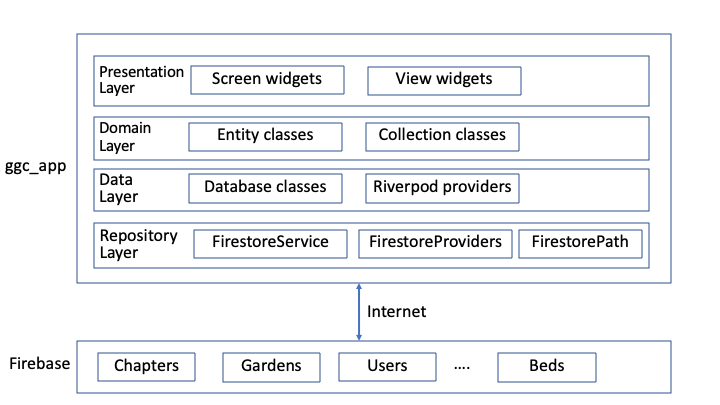
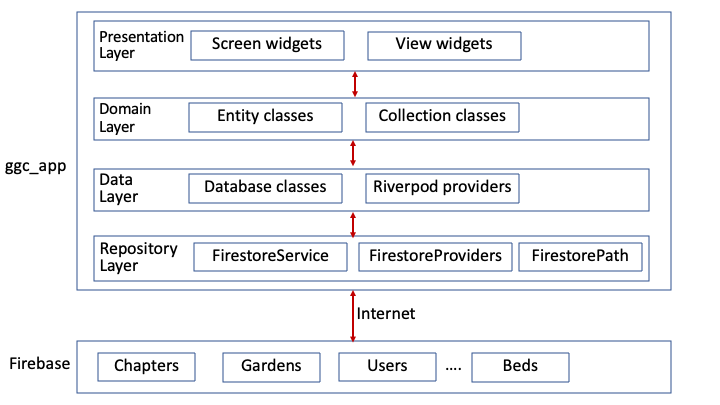
updates to architecture

diff --git a/docs/develop/architecture.md b/docs/develop/architecture.md
@@ -15,7 +15,7 @@ To begin, GGC can be viewed as a simple client-server application: there is a ce
 
 ## Layered application architecture perspective
 
-In the above diagram, the client app is structured as four layers. This layering is strict, in that each layer communicates only with the layer above and below it.
+In the above diagram, the ggc_app is represented as four layers. This layering is strict, in that each layer communicates only with the layer above and below it. Let's introduce each layer, moving from bottom to top:
 
 **Repository Layer**. This bottom-most layer implements generic code for communication with Firebase: querying collections for documents; adding, deleting, and modifying documents, and so forth. In this layer, data is represented in JSON format (for entities) or binary format (for images).  
 
@@ -23,30 +23,28 @@ In the above diagram, the client app is structured as four layers. This layering
 
 **Domain Layer**. The domain layer implements code to translate between the data representations used at the data layer (i.e. JSON and Binary) and the data representations used at the Presentation Layer (i.e. Dart classes for entities and collections). The domain layer also implements the "business logic" of the application as discussed in the [Collections and business logic](/docs/develop/design/data-model#collections-and-business-logic) section.
 
-**Presentation Layer**. The presentation layer implements the Flutter-based user interface.  All of the classes at the presentation layer are Widgets. GGC divides UI classes into two types: "Screens" and "Views".  Screens implement a "top-level" page: they return a Scaffold Widget and can be routed to.  Views are "components": they are the building blocks for Screens and can potentially appear in multiple Screens.
+**Presentation Layer**. The presentation layer implements the Flutter-based user interface.  All the classes at the presentation layer are Widgets. GGC implements many kinds of UI objects; for example, "Screens" and "Views".  Screens implement a "top-level" page: they return a Scaffold Widget and they can be routed to.  Views are "components": they are the building blocks for Screens and can potentially appear in multiple Screens.
 
 ## Directory structure perspective
 
-There is a relatively straightforward correspondence between the above layers and the directory structure in the ggc_app repository. The top-level of the repo is more or less like any Flutter app.  Here is a semi-annotated version of most of the top-level files and directories: 
+There is a relatively straightforward correspondence between the above layers and the directory structure in the ggc_app repository. The top-level of the repo is more or less like any Flutter app.  Here is a semi-annotated version of some of the top-level files and directories to give you an idea of the organization:
 
 ```
 ggc_app/
-  .github/                  # CI GitHub Actions
-  android/
-  assets/
-  ios/
-  lib/                      # Source code here
-  linux/
-  macos/
-  stories/                  # Monarch stories here.
-  test/
-  web/
-  windows/
+  .github/                  # GitHub Actions
+  android/                  # (Managed by Flutter)
+  assets/                   # Static data resources
+  ios/                      # (Managed by Flutter)
+  integration_test          # Test code 
+  lib/                      # Source code 
+  linux/                    # (Managed by Flutter)
+  macos/                    # (Managed by Flutter)
+  stories/                  # Monarch code
+  web/                      # (Managed by Flutter)
+  windows/                  # (Managed by Flutter)
   analysis_options.yaml
-  build_runner.sh           # Useful if you change data model.
-  lakos.sh                  # Build a diagram of the architecture
   pubspec.yaml
-  run_monarch.sh            # Run the Monarch UI Story system
+  run_build_runner.sh       # Example of a GGC script           
 ```
 
 The lib/ directory is where most of the action is. Here's a semi-annotated perspective of some the top-level of the lib/ directory:
@@ -55,25 +53,24 @@ The lib/ directory is where most of the action is. Here's a semi-annotated persp
 lib/
   features/        #  Feature-based organization for Data, Domain, and Presentation layers
   repositories/    #  Implements the "Repository" layer
+  theme/           #  UI Theme (fonts, colors, etc.
   main.dart        #  Main entry point
+  main_test_fixture.dart # An entry point that uses the test fixture data.
   router.dart      #  Implements routes using go_router 
-  theme_data.dart  #  Implements a theme using FlexColorScheme
 ```
 
 Finally, here's a look inside the features/ directory:
 
 ```
 features/
+  admin/
   authentication/        # Authentication using firebase_ui_auth.
     /presentation        # Implementation only requires UI widgets.
-    
   common/                # Cross-cutting code
-  
   chapter/               # Implementation of Chapter feature
     data/                # Firebase interface
     domain/              # Chapter, ChapterCollection, etc.
-    presentation/        # ChapterIndexScreen, ChapterView, etc.
-    
+    presentation/        # ChapterIndexScreen, ChapterView, etc.    
   crop/
   garden/
   gardener/
@@ -84,3 +81,33 @@ features/
 ```
 
 Each feature can have one or more of the following subdirectories: domain/, data/, and presentation/.  The authentication feature only requires a presentation/ subdirectory, while the chapter feature requires all three.
+
+## Data flow perspective
+
+A final architectural perspective illustrates the way data flows between external sources (i.e. Firestore) and the app. Here is a diagram that illustrates some of the key components:
+
+<img src="/img/develop/release-1.0/ggc-dataflow-diagram.png"/>
+
+Note that at the Firestore level, data is stored in a set of "flat" collections corresponding in many cases to "features" (i.e. Beds, Chapters, Crops, etc.). For the most part, the data model is similar to the table structure favored by SQL databases, even though Firestore is a document-oriented (NoSQL) database. 
+
+This diagram also illustrates the way GGC addresses the issue of communication with external services, which is intrinsically asynchronous. In asynchronous communications, there will be an unpredictable delay between the "request" (i.e. to retrieve or to store data) and the "response" (i.e. the request succeeded or failed). During this time, the UI should show some sort of "loading" indicator rather than freezing, or potentially just as bad, allowing the user to interact further with the UI. Finally, if the request fails (network or service is down), the UI should indicate the failure.
+
+Managing asynchronous communication in code is complex. In GGC, we have encapsulated the complexities of asynchronous communication into two mechanisms: the "With" widgets (for retrieval of data asynchronously), and the MutateController (for persisting data asynchronously).  What this provides is the ability to write app code with clearly defined boundaries between asynchronous and synchronous actions, which simplifies the code and reduces the chances for bugs in data storage and retrieval.
+
+The "With" widgets (such as WithCoreData, WithObservationData, WithUserGardenData, WithAllData) are responsible for setting up Riverpod providers that watch the various Firestore collections in various ways, and the populating an instance of each of three classes (ChapterCollection, GardenCollection, and UserCollection) with the data retrieved. Each With widget is responsible for displaying a "loading" icon while it waits for the required data from Firestore to arrive (or display an error if one occurs). Once the data arrives, it invokes a callback function supplied to it, passing the populated ChapterCollection, GardenCollection, and UserCollection instances. As a bonus, if any of the Firestore collections are updated by some other client, the use of Riverpod means that the widget will be automatically rebuilt, refreshing the UI with the changed data automatically. Consult the ["With" Widgets Design Pattern](design/with-widgets.md) documentation for more details.
+
+While the With widgets address the issue of asynchronous data retrieval, we must also address the issue of asynchronous data persistence.  It's the same problem, in reverse: when the app wants to persist data back to Firestore, the storage request will take an unpredictable amount of time, we'll want the UI to display a loading indicator during that time, and if an unforeseen error occurs, we'll want to show that to the user. 
+
+GGC addresses the persistence problem with a single class called MutateController.  Whenever UI code wants to update the database, it invokes this controller which takes a large number of optional arguments to support any combination of updates to the underlying entities. Consult the [Data Mutation Design Pattern](design/data-mutation.md) documentation for more details.
+
+
+
+
+
+
+
+
+
+
+
+

diff --git a/docs/develop/scripts.md b/docs/develop/scripts.md
@@ -7,13 +7,16 @@ hide_table_of_contents: false
 
 GGC development is supported by a number of Unix shell scripts. All scripts are named starting with "run" and use snake case to separate words in the script name.  
 
-| Name                 | Action                                                                                                                                                                                                                                                           |
-|----------------------|------------------------------------------------------------------------------------------------------------------------------------------------------------------------------------------------------------------------------------------------------------------|
-| run_build_runner.sh  | Invokes the builder running code generation facility, needed for entities using Freezed, JSON Serializable, and Riverpod.  |
-| run_deploy.sh | Bumps version number, updates release notes, builds the .ipa and .apk files, and deploys the web version. |
+| Name                 | Action                                                                                                                                                                                                                                                            |
+|----------------------|-------------------------------------------------------------------------------------------------------------------------------------------------------------------------------------------------------------------------------------------------------------------|
+| run_build_runner.sh  | Invokes the builder running code generation facility, needed for entities using Freezed, JSON Serializable, and Riverpod.                                                                                                                                         |
+| run_deploy.sh | Bumps version number, updates release notes, builds the .ipa and .apk files, and deploys the web version.                                                                                                                                                         |
 | run_flutter_clean.sh | After upgrading Flutter or pub.dev packages, the build might fail either during the `pod install` or `xcode build` steps. When this happens, google searches based on the error message often provide bad advice for Flutter developers. Try this script instead. |
-| run_flutter_downgrade.sh | In the event that a new release breaks things, you can use this script to back out to the previous release of flutter. |
-| run_monarch.sh       | A standard way to invoke the Monarch UI display system.                                                                                                                                                                                                          |
-| run_pub_add.sh       | If you are rebuilding the ggc_app with a fresh install of Flutter, this script installs all of the packages in one command. Before running it, make sure the list of packages is up to date!  |
-| run_rebuild_podfile.sh | If the build fails due to a podfile problem, this script rebuilds it appropriately. |
-| run_tool_versions.sh | Prints out the names and versions of important tech stack components. Useful when trying to diagnose why the system builds and runs for one developer but produces errors for another.                                                                           |                                                 |
+| run_flutter_downgrade.sh | In the event that a new release breaks things, you can use this script to back out to the previous release of flutter.                                                                                                                                            |
+| run_lakos.sh | Generates a visualization of the dependency graph.                                                                                                                                                                                                                |
+| run_monarch.sh       | A standard way to invoke the Monarch UI display system.                                                                                                                                                                                                           |
+| run_pub_add.sh       | If you are rebuilding the ggc_app with a fresh install of Flutter, this script installs all of the packages in one command. Before running it, make sure the list of packages is up to date!                                                                      |
+| run_rebuild_podfile.sh | If the build fails due to a podfile problem, this script rebuilds it appropriately.                                                                                                                                                                               |
+| run_tests.sh | Runs the entire integration test suite.                                                                                                                                                                                                                           |
+| run_tests_single.sh | Runs a single integration test. |
+| run_tool_versions.sh | Prints out the names and versions of important tech stack components. Useful when trying to diagnose why the system builds and runs for one developer but produces errors for another.                                                                            |                                                 |

diff --git a/docs/develop/installation.md b/docs/develop/installation.md
@@ -30,9 +30,9 @@ Doctor summary (to see all details, run flutter doctor -v):
 
 ## Tool versions
 
-It turns out that getting Flutter Doctor to report no issues is not enough.  There are other tech stack components which must also be at an appropriate version in order for the app to run successfully during development.  In some cases, there might be multiple appropriate versions, but every developer must be using the same version of the tools; otherwise the app will run for some developers but not for others.
+It turns out that getting Flutter Doctor to report no issues is not enough.  There are other tech stack components which must also be at an appropriate version in order for the app to run successfully during development.  In some cases, there might be multiple possible versions, but every developer must be using the same version of the tools; otherwise the app will run for some developers but not for others.
 
-In order to help developers keep on the same page with respect to tech stack versions, we have implemented a script called `run_tool_versions.sh` that prints versions of the tech stack tools important to getting GGC to run correctly.  Our Discord server has a channel called "#tool-versions" where developers post the output from running this script. This helps all of us to stay on the same page, and when one person updates a component of the tech stack, they can post the new output from the script so that everyone else can update their tech stack as well.
+In order to help developers keep on the same page with respect to tech stack versions, we have implemented a script called `run_tool_versions.sh` that prints versions of the tech stack tools important to getting GGC to run correctly.  Our Discord server has a channel called `#tool-versions` where developers post the output from running this script. This helps all of us to stay on the same page, and when one person updates a component of the tech stack, they can post the new output from the script so that everyone else can update their tech stack as well.
 
 Here is an example of the output from `run_tool_versions.sh`:
 
@@ -40,16 +40,16 @@ Here is an example of the output from `run_tool_versions.sh`:
 % ./run_tool_versions.sh
 Computer Name: PMJ M2 2023
 Cocoapods 1.15.2
-Dart SDK version: 3.5.0 
-Flutter 3.24.0 
-MacOS 14.5
+Dart SDK version: 3.5.4 
+Flutter 3.24.4 
+MacOS 14.6.1
 Monarch version 2.2.7
 ruby 3.2.2 (202
-Xcode 15.4
+Xcode 16.0
 ```
-Be sure to run this script and check it against the output from the Discord channel. If there are differences, try to update your tech stack to match the versions in the Discord channel.
+Be sure to run this script locally and check it against the output from the Discord channel. If there are differences, try to update your tech stack to match the versions in the Discord channel.
 
-Note that GGC development is done using MacOS. We do not support Windows or Unix-based development at this time.
+Note that all GGC development is done using macOS. We do not support Windows or Unix-based development at this time.
 
 ## GGC App
 

diff --git a/docs/develop/onboarding.md b/docs/develop/onboarding.md
@@ -23,14 +23,17 @@ We assume that you already have basic proficiency in Dart and Flutter.  If you a
 
 Before you can contribute code to this project, you will need to sign a document that assigns the ownership of the code you contribute to Geo Garden Club, LLC.  Please contact Philip or Jenna for details on how to do this.
 
-## Developer workflow
+## Development process basics
 
-We use a basic process for development:
+We use the following process for development:
 
 * Tasks are specified in a GitHub project board. The project board for GGC is available at: [https://github.com/orgs/geogardenclub/projects/1/views/1](https://github.com/orgs/geogardenclub/projects/1/views/1)
 
-* Code is developed using a branch-and-merge model. Please name the branch "issue-XXX", where XXX is the issue number associated with the task associated with your coding.
+* Code is developed using a branch-and-merge model. The `main` branch should always contain a working version of the system. Do your development work in a branch off of the main branch.  Please name the branch "issue-XXX", where XXX is the issue number associated with the task on the project board that you are working on. When that task is complete, you merge your branch back into main. (We do not currently use pull requests, although that could change in the future.)
 
-* If you are making a trivial fix, feel free to commit directly to the main branch. 
+* If you are making a trivial fix, you can commit directly to the main branch.
 
-* We run a CI task to ensure that all code committed to the main branch passes `dart analyze` without triggering warnings or errors. 
+* Before merging your code into the main branch: 
+  1. Be sure that `dart analyze` does not generate any errors (this will be verified via a GitHub action).
+  2. Be sure that `./run_tests.sh` does not generate any errors (this is not currently verified via a GitHub action).   
+

diff --git a/docs/develop/coding-standards.md b/docs/develop/coding-standards.md
@@ -72,13 +72,6 @@ One good heuristic to avoid deeply indented code is to not inline multi-line cal
                                   'gardenID': widget.task.gardenID
                                 });
                             break;
-                          // case SampleItem.editPlanting:
-                          //   context.pushNamed(AppRoute.planting.name,
-                          //       pathParameters: {
-                          //         'gardenID': widget.task.gardenID,
-                          //         'plantingID': widget.task.plantingID
-                          //       });
-                          //   break;
                         }
                       },
                       itemBuilder: (BuildContext context) => popupMenuItems),
